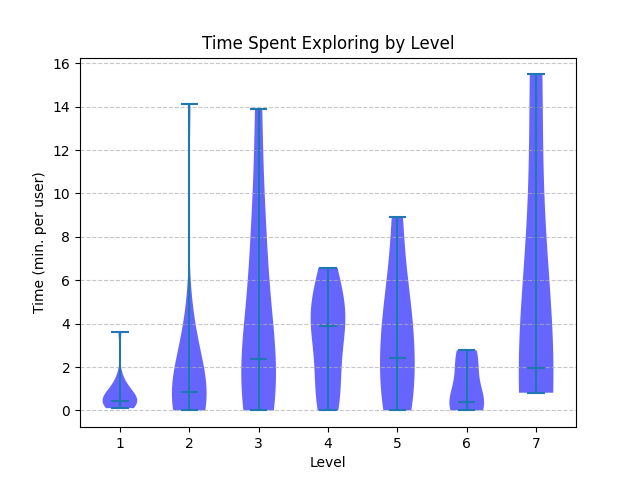
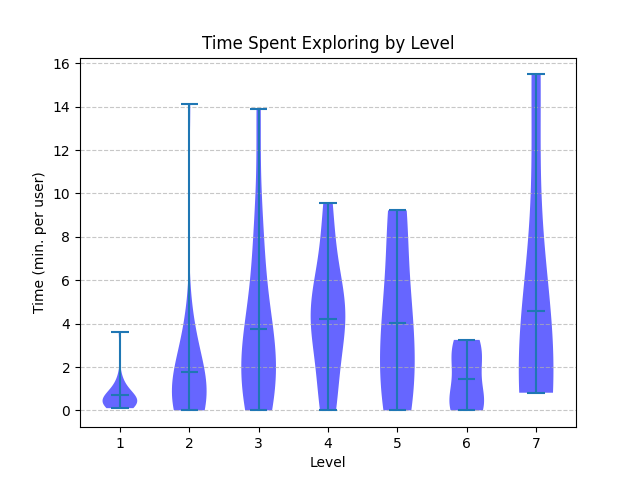
Updated plots

diff --git a/Data/plot_data.py b/Data/plot_data.py
@@ -1,6 +1,7 @@
 import math
 import subprocess
 
+from matplotlib.figure import Figure
 import numpy as np
 import pandas as pd
 import matplotlib.pyplot as plt
@@ -87,6 +88,7 @@ def fig_to_png(fig: plt.Figure, name: str):
 
 ############### Defining the actual plots functions ####################
 
+
 # this is kinda replaced by the violin plot
 def stacked_bar():
     df = firestore_to_df("level_complete", ["flashlight_pct_on", "time_spent", "level"])
@@ -102,8 +104,20 @@ def stacked_bar():
     df = df.groupby("level")[["time_spent", "time_flashlight_on"]].mean()
 
     fig = plt.figure()
-    plt.bar(LEVELS + 1, df["time_spent"], color="navy", edgecolor="black", label="Exploring Maze")
-    plt.bar(LEVELS + 1, df["time_flashlight_on"], color="gold", edgecolor="black", label="Flashlight On")
+    plt.bar(
+        LEVELS + 1,
+        df["time_spent"],
+        color="navy",
+        edgecolor="black",
+        label="Exploring Maze",
+    )
+    plt.bar(
+        LEVELS + 1,
+        df["time_flashlight_on"],
+        color="gold",
+        edgecolor="black",
+        label="Flashlight On",
+    )
 
     plt.legend()
     plt.title("Flashlight Usage & Time Spent by Level")
@@ -119,6 +133,30 @@ def level_plots():
         "level_complete",
         ["level", "flashlight_pct_on", "time_spent", "userId"],
     )
+
+    # bar plot of user retention
+    total_users = df["userId"].nunique()
+    print(f"Total users: {total_users}")
+
+    users_per_level = df.groupby("level")["userId"].nunique().sort_index()
+
+    pct_per_level = (users_per_level / total_users) * 100
+    fig, ax = plt.subplots()
+    ax.plot(pct_per_level.index, pct_per_level.values, marker="o")
+
+    ax.set_title("User Retention across Levels")
+
+    ax.set_xlabel("Level")
+    ax.set_ylabel("% of User Base Completed")
+
+    ax.set_xticks(LEVELS)
+    ax.set_xticklabels(LEVELS + 1)
+
+    ax.set_ylim(0, 100)
+    ax.grid(True, linestyle="--", alpha=0.6)
+
+    fig_to_png(fig, "level_completion_percentage")
+    plt.close(fig)
 
     # --- violin plot: time spent per level ---
     df["time_spent_minutes"] = df["time_spent"] / 60
@@ -136,7 +174,9 @@ def level_plots():
     positions = [lvl for lvl, data in zip(LEVELS, time_spent_by_level) if data.size > 0]
 
     fig, ax = plt.subplots()
-    parts = ax.violinplot(time_spent_by_level, positions=positions, showmedians=True)
+    parts = ax.violinplot(
+        time_spent_by_level, positions=positions, showmeans=True, showmedians=False
+    )
 
     for pc in parts["bodies"]:
         pc.set_facecolor("blue")
@@ -263,12 +303,14 @@ def death_plot():
         )
 
     ax.set_xlabel("Level")
+    ax.set_xticks(LEVELS)
+    ax.set_xticklabels(LEVELS + 1)
     ax.set_ylabel("# of Occurences (average per user)")
-    ax.set_title("Player Death & Fight by Level")
+    ax.set_title("Player Death vs. Stuns by Level")
     ax.legend()
     ax.grid(axis="y", linestyle="--", alpha=0.7)
 
-    fig_to_png(fig, "death_dot")
+    fig_to_png(fig, "death_bar_plot")
 
 
 def get_num_users():
@@ -280,7 +322,7 @@ def get_num_users():
 
 ############### Calling the plots functions ####################
 
+stacked_bar()
 level_plots()
 flashlight_plot()
 death_plot()
-get_num_users()
